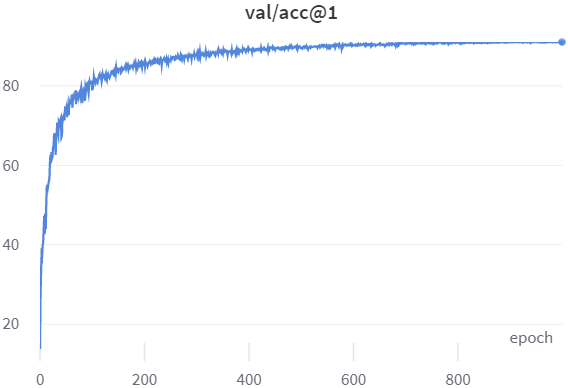
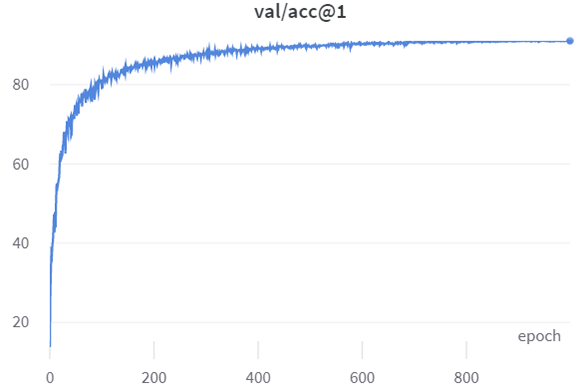
improved figures and formatting

diff --git a/README.md b/README.md
@@ -21,9 +21,9 @@ Here is the accuracy after training for 1000 epochs:
 | CIFAR100 | 67.0% | 90.5% |
 ### Training and Validation Curves
 #### CIFAR10
-<img src="assets/loss-CIFAR10.png" width="290"> <img src="assets/acc@1-CIFAR10.png" width="290"> <img src="assets/acc@5-CIFAR10.png" width="290">
+<img src="assets/loss-CIFAR10.png" width="275"> <img src="assets/acc@1-CIFAR10.png" width="275"> <img src="assets/acc@5-CIFAR10.png" width="275">
 #### CIFAR100
-<img src="assets/loss-CIFAR100.png" width="290"> <img src="assets/acc@1-CIFAR100.png" width="290"> <img src="assets/acc@5-CIFAR100.png" width="290">
+<img src="assets/loss-CIFAR100.png" width="275"> <img src="assets/acc@1-CIFAR100.png" width="275"> <img src="assets/acc@5-CIFAR100.png" width="275">
 
 
 # Environment
